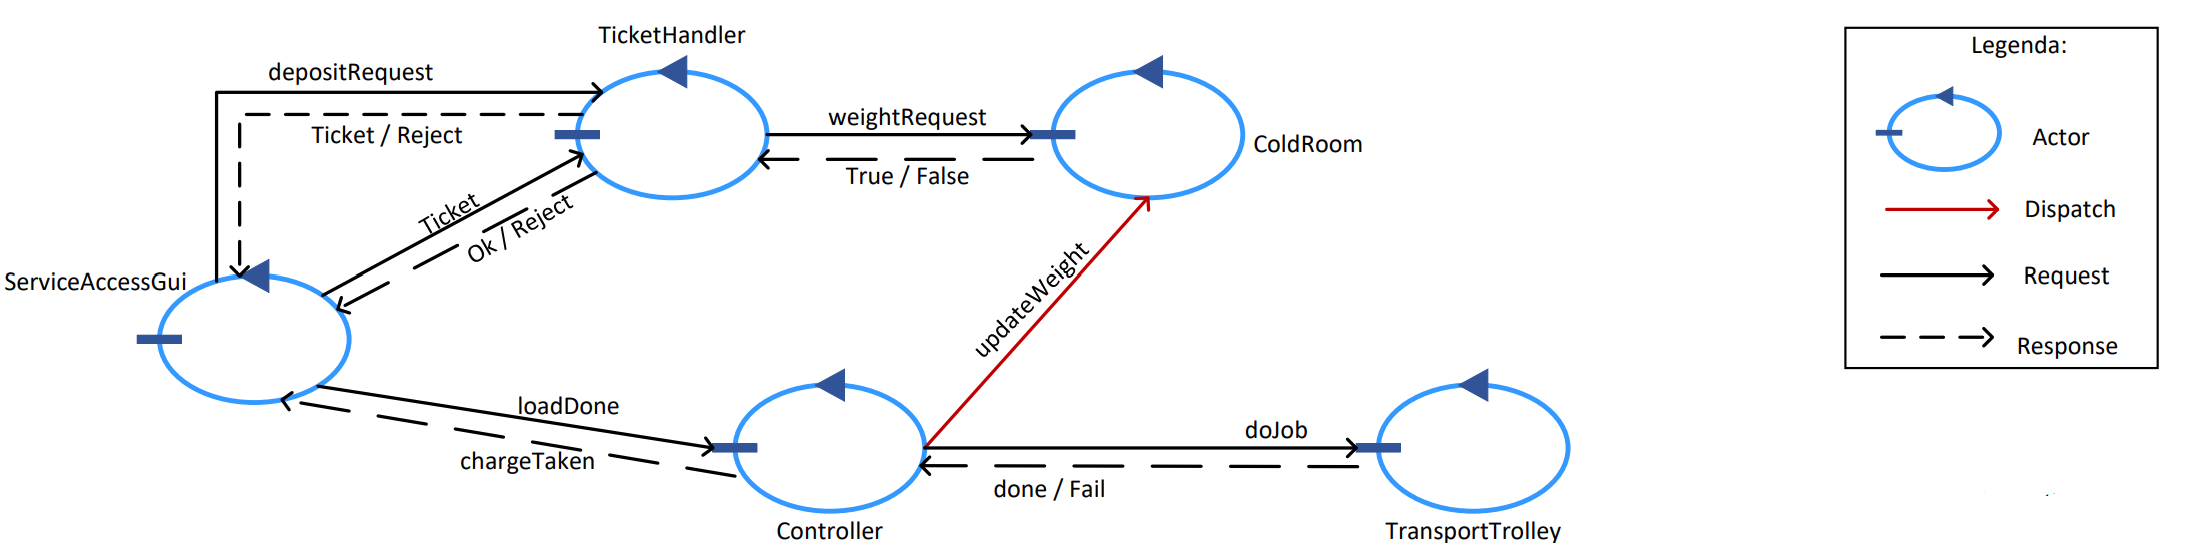
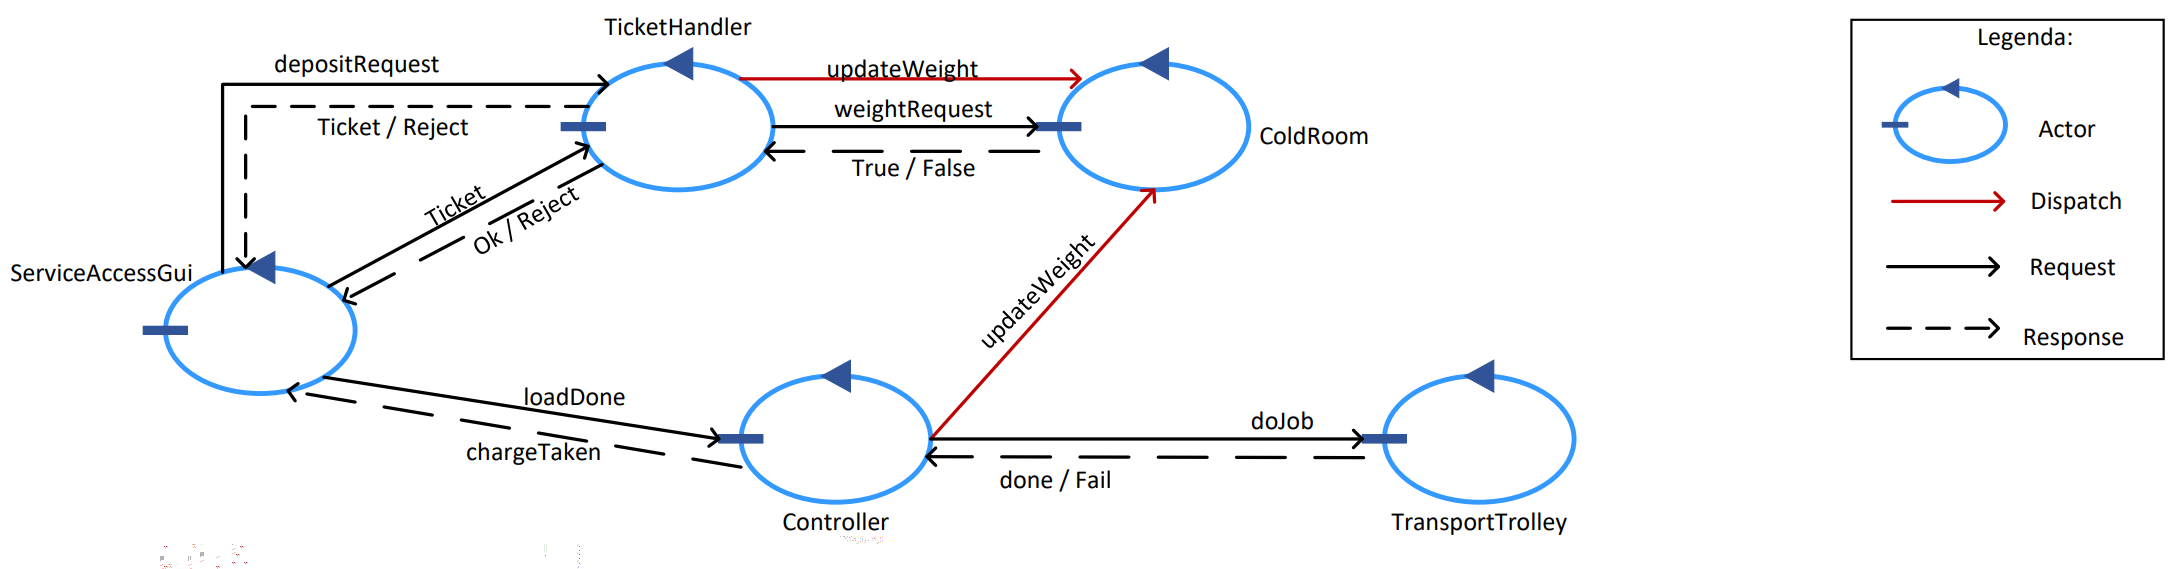
modifica doc sprint2, manca da riguardare l'ultimo punto e basta sec me

Changed region(s): [[0.0, 0.0295, 0.7181, 1.0], [0.843, 0.0295, 0.9991, 0.7072]]

diff --git a/Sprint2/Doc/Sprint 2.md b/Sprint2/Doc/Sprint 2.md
@@ -18,34 +18,43 @@ A company intends to build a ColdStorageService, composed of a set of elements:
 
 ### Analisi dei Requisiti
 ##### ==Service Area==
-Area rettangolare piana racchiusa entro quattro pareti. Procedendo dal bordo superiore e muovendoci in senso orario, i nomi delle pareti sono: wallUp, wallRight, wallDown, wallLeft. All'interno del Service Area il transport trolley è libero di muoversi. 
-La stanza è rettangolare ed ha dimensione Lato-Lungo * lato-corto (L * l).
+Area rettangolare di dimensione L * l. L'area sarà suddivisa in una griglia con coordinate.
+
+`NOTE: L'area è piana, racchiusa entro quattro pareti. Procedendo dal bordo superiore e muovendoci in senso orario, i nomi delle pareti saranno: wallUp, wallRight, wallDown, wallLeft. All'interno del Service Area il transport trolley è libero di muoversi.La stanza è rettangolare ed ha dimensione Lato-Lungo * lato-corto (L * l). Per definire la posizione del robot in ogni momento l'area è divisa in una griglia con coordinate crescenti associate a partire dall'angolo in alto a sinistra`
 
 ##### ==HOME==
-Locazione all'interno della Service Area dove il transport trolley si trova rivolto verso il basso nell'angolo superiore sinistro. La Home è la zona della Service Area in cui il robot si troverà all'avvio e in ogni periodo di attesa di nuove richieste.
+Zona della Service Area corrispondente alle coordinate (0,0)
+
+`NOTE: Locazione all'interno della Service Area dove il transport trolley si trova rivolto verso il basso, nell'angolo superiore sinistro. La Home è la zona della Service Area in cui il robot si troverà all'avvio e in ogni periodo di attesa di nuove richieste.`
 
 ##### ==INDOOR port==
-Locazione all'interno della Service Area in cui un camion si presenta per far caricare la merce al transport trolley. Si trova nell'angolo in basso a sinistra della Service Area.
+Zona della Service Area corrispondente alle coordinate (0,MAX)
+
+`NOTE: Locazione all'interno della Service Area in cui un camion scarica la merce da far caricare al transport trolley. Si trova nell'angolo in basso a sinistra della Service Area. Le coordinate crescono allontanadosi dalla HOME, INDOOR port si trova a distanza massima sull'asse Y`
 
 ##### ==ColdRoom Container==
-Contenitore fisico posizionato all'interno della Service Area in una posizione fissa. 
-In questo elemento il transport trolley è in grado di depositare cibo fino ad un massimo di MAXW kg. ColdRoom Container rappresenta un ostacolo all'interno della Service Area per il transport trolley, ciò vuol dire che non può muoversi nella posizione in cui l'elemento è localizzato.
+Attore in posizione fissa (x,y) in Service Area in grado di ricevere e contenere cibo da un lato specifico. Ha una capienza pari a MAXW kg.
+
+`NOTE: Contenitore fisico posizionato all'interno della Service Area in una posizione fissa. In questo elemento il transport trolley è in grado di depositare cibo fino ad un massimo di MAXW kg. ColdRoom Container rappresenta un ostacolo all'interno della Service Area per il transport trolley, ciò vuol dire che non può muoversi attraverso la posizione in cui l'elemento è localizzato, per semplicità supporremo che il container occupi interamente una sola coordinata di Service Area.`
 
 ##### ==Porta della ColdRoom==
-Lato del ColdRoom Container tramite li quale è possibile depositare il cibo. Corrisponde al lato del container rivolto verso il basso della Service Area. Il transport trolley dovrà posizionarsi davanti alla porta della ColdRoom per poter depositare al suo interno il cibo.
+Lato della ColdRoom che si affaccia sull'area di coordinate (x, y+1). Transport Trolley dovrà trovarsi in questa posizione per interagire con ColdRoom.
+
+`NOTE: Lato del ColdRoom Container tramite li quale è possibile depositare il cibo. Corrisponde al lato del container rivolto verso il basso della Service Area. Il transport trolley dovrà posizionarsi davanti alla porta della ColdRoom per poter depositare al suo interno il cibo overo in corrispondenza delle coordinate (x, y+1).`
 
 ##### ==DDR robot==
 *Differential Drive Robot*, vedi [DDR](https://www.youtube.com/watch?v=aE7RQNhwnPQ).
 
 ##### ==Transport trolley==
-DDR quadrato di lunghezza RD in grado di compiere i seguenti comandi: 
-	- movimento avanti e indietro
-	- rotazione sul posto a 360°
-	- carica e scarica del cibo
-   Come primo prototipo utilizzeremo il seguente robot fisico: https://github.com/XANA-Hub/ProgettoTT.git. Utilizzando il robot fisico si ha che il valore RD sarà più grande dell'effettiva lunghezza del robot per permetterne la rotazione.
-   
+DDR contenuto in un quadrato di lunghezza RD in grado di compiere i seguenti comandi: 
+	- step: `sposta il robot nella casella di fronte`
+	- turn_left: `muove l'orientamento del robot di 90° verso sinistra`
+	- turn_right: `muove l'orientamento del robot di 90° verso destra`
+	- load_food: `carica il cibo (da Indoor)`
+	- unload_food: `scarica il cibo (in ColdRoom)`
+
 ##### ==Food-load==
-quantità di cibo (in kg) che il robot dovrà scaricare dal Fridge Truck e mettere in ColdRoom Container.
+Carico (in kg) che il robot caricherà da Indoor e depositerà in ColdRoom Container.
 
 ##### ==Current weight==
 Quantità di cibo attualmente contenuto in ColdRoom definito in base al peso.
@@ -73,55 +82,76 @@ Ogni Ticket è caratterizzato dai seguenti parametri:
 - codice univoco che identifica il ticket generato.
 
 ### Analisi del Problema
+
 ![[ArchitetturaLogica_Sprint2.png]]
-- Chi si occupa della generazione e della verifica di validità dei Ticket?
+
+- ==Chi si occupa della generazione e della verifica di validità dei Ticket?==
 	Introduciamo un nuovo attore "TicketHandler" che si occupi di:
 		1) verificare se è possibile generare il Ticket richiesto;
 		2) generare i Ticket;
 		3) verificare se il Ticket ricevuto è valido temporalmente, ovvero se è scaduto o meno.
-- Protocollo di richiesta e generazione del ticket:
+
+- ==Protocollo di richiesta e generazione del ticket:==
 	1) Inizia con una request/response da parte del driver tramite ServiceAccessGUI verso TicketHandler, a cui viene passato il peso da scaricare;
-	2) TicketHandler chiede a ColdRoom se c'è abbastanza spazio per depositare la quantità di cibo dichiarata dal driver sempre tramite Request/Response, la quale viene passata come parametro;
-	3) Se c'è abbastanza spazio, ColdRoom aggiorna i propri attributi in modo tale da memorizzare che una quantità di peso è riservata al driver in questione che ne ha fatto richiesta e ritorna True, altrimenti False;
+	2) TicketHandler chiede a ColdRoom se c'è abbastanza spazio per depositare la quantità di cibo dichiarata dal driver sempre tramite request/response, la quale viene passata come parametro;
+	3) Se c'è abbastanza spazio, ColdRoom aggiorna i propri attributi in modo tale da memorizzare che una quantità di peso è riservata al driver in questione che ne ha fatto richiesta e risponde True, altrimenti False;
 	4) Se TicketHandler riceve True genera il ticket e lo invia come risposta a ServiceAccessGui, altrimenti risponde Rejected
-- Utilizzo del ticket:
-	Una volta arivato in INDOOR, il driver, invia il Ticket a TicketHandler tramite Request/Response. Il TicketHandler verifica il **TICKETTIME** e restituisce Ok / Rejected, effettua quindi la verifica di validità temporale del Ticket. 
+	
+- ==Utilizzo del ticket:==
+	Una volta arrivato in INDOOR, il driver, invia il Ticket a TicketHandler tramite Request/Response. Il TicketHandler verifica il **TICKETTIME** e restituisce Ok / Rejected, effettua quindi la verifica di validità temporale del Ticket. 
 	Se la richiesta viene approvata ServiceAccessGUI invia tramite Request/Response al Controller la richiesta "load done" per notificare al Controller che il FridgeTruck è pronto e per inviare il peso effettivo che intende scaricare. Dopo di che attende una risposta "charge taken" da parte del Controller.
 	
 ![[Sprint2/Doc/cicloVitaMessaggi.png]] 
 
-- Problema, la sicurezza:
+- ==Problema, la sicurezza:==
 	- Dobbiamo assicurarci che chi richiede il ticket sia l'unico a poterlo usare.
 	- Tutti vedono l'emissione di un ticket, ci sta bene? possibile violazione della privacy
 	- Fare in modo che un ticket non sia riutilizzabile? possibile DoS, usiamo ticket sequenziali?
 	- Fare in modo che la risposta ad una richiesta arrivi al camionista che l'ha mandata e solo a lui anche se la richiesta arriva da un dispositivo alieno.
-- Cosa succede se viene fatta una richiesta prima che i driver che hanno fatto le richieste precedenti abbiano scaricato?
-	La richiesta potrebbe venire accettata anche se dovrebbe essere rifiutata in quanto l'elaborazione delle richieste precedenti non è ancora terminata, per risolvere il problema definiamo due pesi diversi: 
+	
+- ==Come avviene la memorizzazione del peso in ColdRoom?==
+	E' necessario prendere in considerazione il seguente problema:
+	Un driver potrebbe inviare la richiesta di un Ticket prima che driver, a cui è stato generato un Ticket in precedenza, abbiano scaricato.
+	Ciò potrebbe essere un problema nel caso in cui la somma tra il peso attuale contenuto in ColdRoom e il peso della quantità di materiale che intendono scaricare i driver che ancora non sono arrivati in INDOOR ma che hanno già un Ticket corrisponde al peso totale contenibile da ColdRoom.
+	
+	Per risolvere il problema definiamo due pesi diversi: 
 	1)  Peso effettivo : quantità (peso) di cibo contenuto in ColdRoom nell'istante attuale, aggiornato solo dopo che il DDR robot ha terminato il carico/scarico merce di un determinato driver.
 	2) Peso "promesso" : quantità di peso richiesta tramite Ticket dai driver che ancora però non hanno completato lo scarico, aggiornato dopo che il DDR robot ha terminato il carico/scarico merce di un determinato driver oppure quando la verifica del tickettime di un determinato Ticket ha un esito negativo.
 	Questi due pesi si troveranno entrambi in ColdRoom (se un giorno ci saranno due punti di accesso il peso futuro deve essere in comune).
 	Per verificare se accettare o meno una richiesta da parte di un driver è necessario confrontare la somma dei due pesi con il peso massimo contenibile in ColdRoom.
-- Cosa succede se scade almeno un ticket prima che il driver a cui è associato arrivi in INDOOR, la somma tra il peso effettivo e peso promesso in ColdRoom corrisponde al peso massimo e arriva una richiesta quest'ultima viene rifiutata?
-	Rifiutare la richiesta non sarebbe corretto dato che è presente almeno un Ticket scaduto il cui driver associato ancora non si è presentato in INDOOR e per il quale è ancora riservata una quantità di peso in ColdRoom la quale non verrà mai utilizzata da quel determinato FridgeTruck.
+
+- ==Cosa succede se scade uno o più un Ticket prima che i driver a cui sono associati arrivino in INDOOR, la somma tra il peso effettivo e peso promesso in ColdRoom corrisponde al peso massimo e arriva una richiesta di generazione di un Ticket? Quest'ultima viene rifiutata?==
+	Rifiutare la richiesta non sarebbe corretto dato che è presente almeno un Ticket scaduto il cui driver associato ancora non si è presentato in INDOOR e per il quale è ancora riservata una quantità di peso in ColdRoom che non verrà mai utilizzata da quel determinato FridgeTruck.
 	Il problema è stato risolto nel seguente modo:
-	TicketHandler mantiene in memoria i ticket emessi e non ancora verificati con il relativo istante, quando viene fatta una richiesta ma la somma tra peso effettivo e promesso in ColdRoom corrisponde al peso massimo allora TicketHandler controlla che non ci siano ticket scaduti che non hanno mai scaricato e, se presenti, aggiorna ColdRoom di conseguenza (rimuove il peso del ticket scaduto e se possibile aggiorna col nuovo ticket). 
-- Contesti:
+	
+	TicketHandler mantiene in memoria i Ticket emessi e non ancora verificati con il relativo istante, quando viene fatta una richiesta ma la somma tra peso effettivo e promesso in ColdRoom corrisponde al peso massimo allora TicketHandler controlla che non ci siano ticket scaduti che non hanno mai scaricato e, se presenti, aggiorna ColdRoom di conseguenza (rimuove il peso del ticket scaduto e se possibile aggiorna col nuovo ticket). 
+	
+- ==Contesti:==
 	- TicketHandler è contenuto sullo stesso contesto di Controller
 	- TransportTrolley, ColdRoom e ServiceAccessGui avranno un contesto a parte per ciascuno
-- ServiceAccessGUI deve dare la possibilità di vedere il peso in ColdRoom all'utente, lo facciamo come Req/Resp o come osservatore costantemente aggiornato?
+	
+- ==ServiceAccessGUI deve dare la possibilità di vedere il peso in ColdRoom all'utente, lo facciamo come Req/Resp o come osservatore costantemente aggiornato?==
 	La cosa migliore sarebbe metterlo in ascolto dei cambiamenti a ColdRoom, ColdRoom diventa observable. In alternativa Req/Resp di deposit weigth fa una richiesta per sapere il peso in coldRoom. In entrambi i casi usiamo la somma tra peso effettivo e peso promesso.
 	
-- Chi si occupa di verificare la validità del Ticket presentato dal driver? Ovvero chi si occupa di controllare se il Ticket è scaduto o meno?
+- ==Chi si occupa di verificare la validità del Ticket presentato dal driver? Ovvero chi si occupa di controllare se il Ticket è scaduto o meno?==
 	La responsabilità di ricevere il Ticket da ServiceAccessGUI e di verificarne la validità può essere affidata all'attore TicketHandler oppure al Controller. 
 	Abbiamo deciso di affidare la verifica del Ticket all'attore TicketHandler per le seguenti motivazioni:
 	- principio di singola responsabilità: gli attori devono avere una singola responabilità e un solo motivo per cambiare. Il Controller ha la responsabilità di sapere quando il driver è pronto per scaricare per notificarlo al TransportTrolley in modo tale che quest'ultimo avvii il servizio di carico e scarico merce da parte del DDR robot. Il TicketHandler ha la responsabilità di gestire i  Ticket, di conseguenza è corretto che sia quest'ultimo ad occuparsi non solo di generare i Ticket richiesti dai driver ma anche di verificarne la validità quando ne riceve uno. 
 	- problemi di sicurezza: i Ticket permettono ai FridgeTruck di depositare la merce in ColdRoom tramite il DDR robot e sono assegnati al singolo FridgeTruck. Per motivi di sicurezza i Ticket si preferisce assegnare la verifica al TicketHandler, essendo un'informazione privata del driver generata dal TicketHandler stessi.
-- Quando e da chi vengono aggiornati i pesi in ColdRoom?
+	
+- ==Quando e da chi vengono aggiornati i pesi in ColdRoom?==
 	Entrambi i pesi (effettivo e "promesso") vengono aggiornati quando il DDR robot ha terminato lo scarico del materiale precedentemente contenuto in un determinato driver. 
-	Una volta che il Controller ha ricevuto una response da parte del TrasportTrolley relativa ad una precedente request "doJob", invia a ColdRoom un dispatch tramite il quale notifica a quest'ultimo la quantità peso da modificare sia per quanto riguarda quello effettivo che quello "promesso". In particolar modo viene passata la quantità da decrementare dal peso "promesso" e la quantità da incrementare al peso effettivo, i due valori possono essere diversi a causa del problema del driver distratto [non so come fare collegamento con la spiegazione del dirver distratto in Sprint0]
-- Quando il driver può uscire dal sistema?
+	Una volta che il Controller ha ricevuto una response da parte del TrasportTrolley relativa ad una precedente request "doJob", invia a ColdRoom un dispatch tramite il quale notifica a quest'ultimo la quantità peso da modificare sia per quanto riguarda quello effettivo che quello "promesso". In particolar modo viene passata la quantità da decrementare dal peso "promesso" e la quantità da incrementare al peso effettivo, i due valori possono essere diversi a causa del problema del driver distratto [non so come fare collegamento con la spiegazione del dirver distratto in Sprint0].
+
+	In un caso particolare i pesi in ColdRoom sono aggiornati anche da TicketHandler tramite un dispatch "updateWeight". Il caso particolare è il seguente:
+	se scade uno o più un Ticket prima che i driver a cui sono associati arrivino in INDOOR, la somma tra il peso effettivo e peso promesso in ColdRoom corrisponde al peso massimo e arriva una richiesta di generazione di un Ticket.
+	Come spiegato in precedenza se ariva una richiesta di generazione di un Ticket e il peso in ColdRoom corrisponde al peso massimo viene effettuata una verifica del TICKETTIME associato a tutti i Ticket generati ed i cui driver ancora non sono arrivati in INDOOR.
+	Nel caso in cui sia presente almeno un Ticket tra quest'ultimi che è scaduto temporalmente allora il TicketHandler procederà ad aggiornare il peso in ColdRoom tramite dispatch.
+
+- ==Quando il driver può uscire dal sistema?==
 	Il driver può uscire dal sistema quando ha scaricato tutta la merce contenuta, ovvero quando riceve dal Controller la response "charge taken" associata ad una precedente request "load done".
-- Quando viene inviato il "charge taken"?
+
+- ==Quando viene inviato il "charge taken"?==
 	Il "charge taken" può essere inviato al driver in corrispondenza all'istante con il quale il Controller invia al TransportTrolley la request "doJob" associata alla rischiesta del driver in questione oppure una volta che il TransportTrolley invia al Controller la response relativa allo scarico del cibo contenuto nel FridgeTruck in questione.
 	Al driver non interessa sapere se il robot ha avuto problematiche o meno, ovvero se lo scarico è andato a buon fine o meno, quindi il "charge taken" potrebbe essere inviato prima. Ma se il DDR Robot prende il cibo direttamente da dentro il FridgeTruck allora è necessario che quest'ultimo aspetti che il DDR Robot abbia terminato le operazioni per poter ricevere il "charge taken" ed uscire dal sistema.
 	[chidere al professore-->NO IPOTIZIAMO NOI]
@@ -129,4 +159,5 @@ Ogni Ticket è caratterizzato dai seguenti parametri:
 
 
 NOTE:
+[MANCA DA SISTEMARE SOLO L'ULTIMO PUNTO]
 Per quanto riguarda l'implementazione è necessario un ServiceAccessGUI per ogni camion che si presenta, in quanto tutte le richieste e comunicazioni sono sincrone bloccanti. Ad ogni ServiceAccessGUI deve essere associata una grafica html. Che tecnologia utilizzare?
